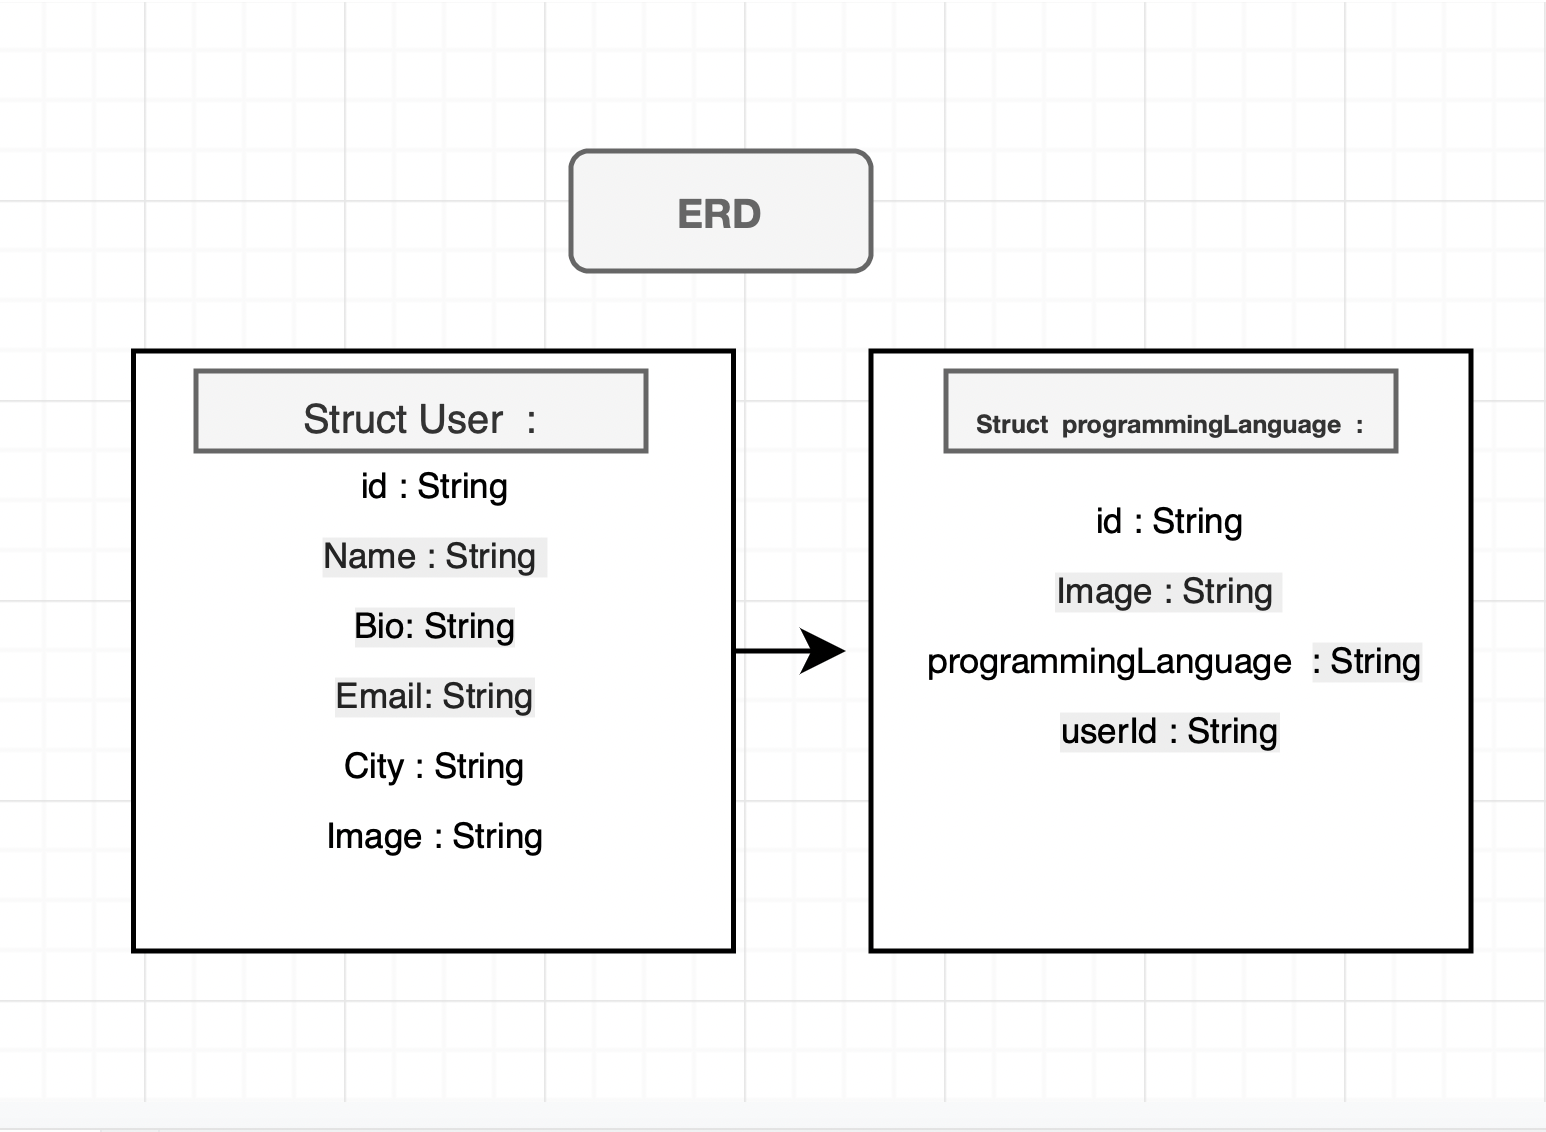
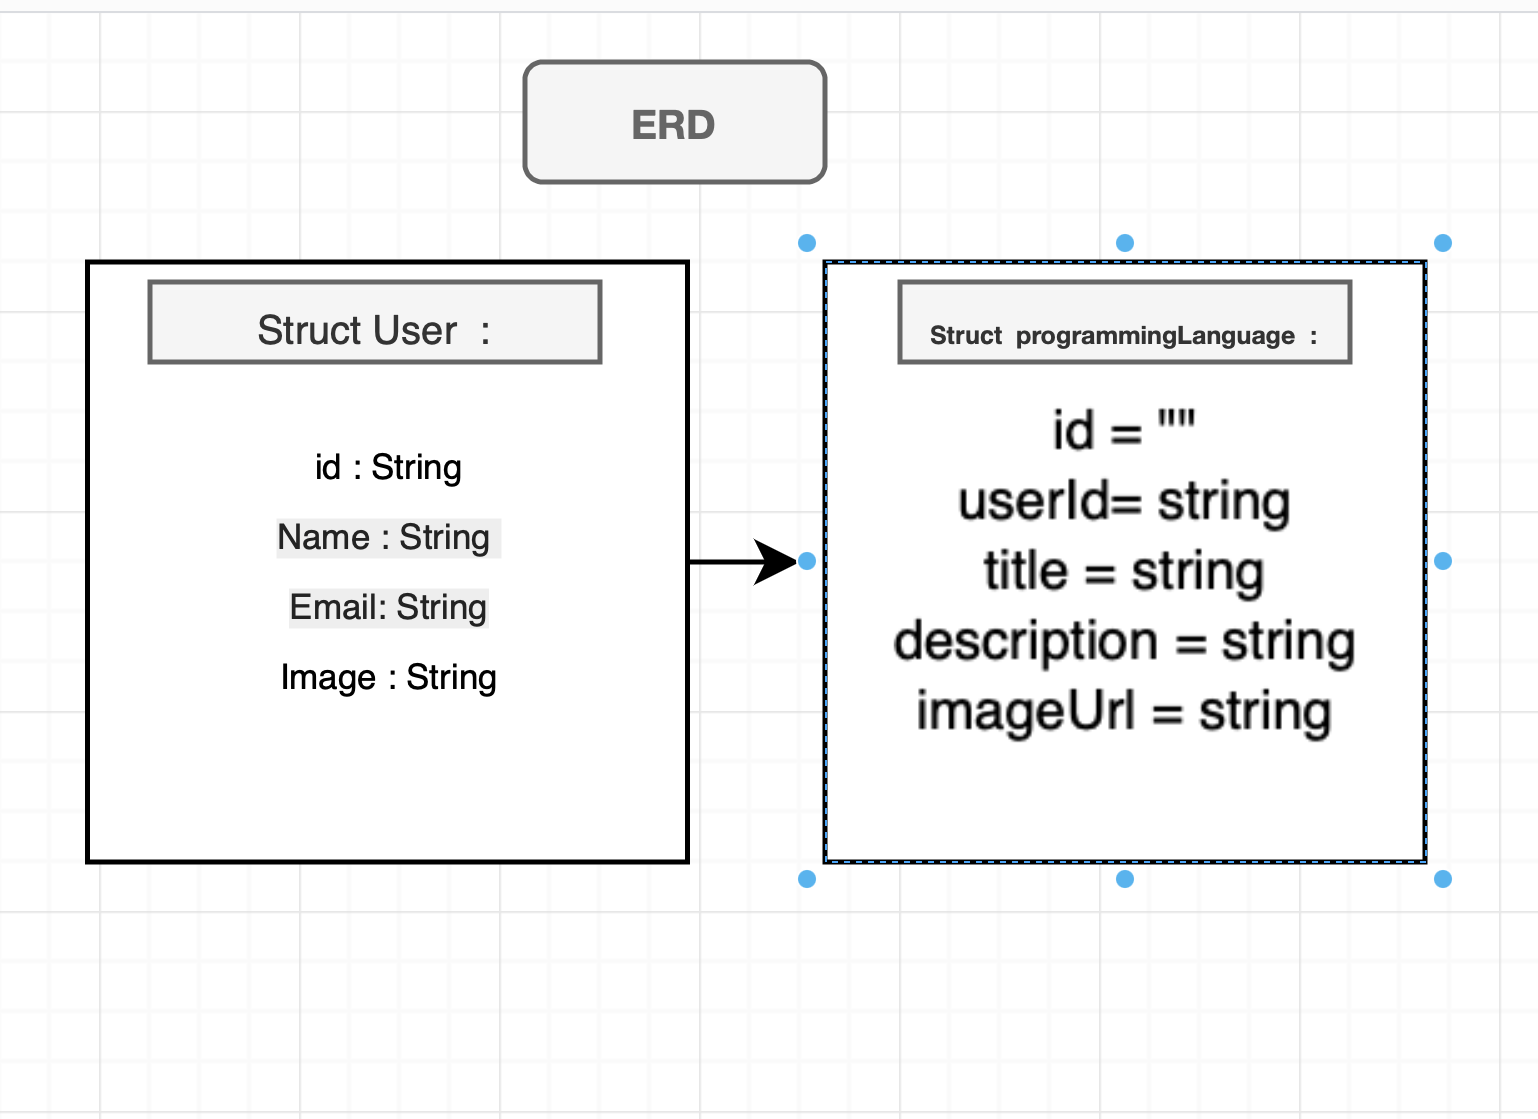
update  for wireframe ...

diff --git a/tuwaiq-academy/tuwaiq-academy/Controller/RegisterViewController.swift b/tuwaiq-academy/tuwaiq-academy/Controller/RegisterViewController.swift
@@ -25,8 +25,6 @@ class RegisterViewController: UIViewController {
     @IBOutlet weak var nameTextField: UITextField!
     @IBOutlet weak var emailTextField: UITextField!
     @IBOutlet weak var passwordTextField: UITextField!
-    @IBOutlet weak var bioTextField: UITextField!
-    @IBOutlet weak var cityTextField: UITextField!
     @IBOutlet weak var confirmPasswordTextField: UITextField!
     override func viewDidLoad() {
         super.viewDidLoad()
@@ -38,8 +36,6 @@ class RegisterViewController: UIViewController {
            let imageData = image.jpegData(compressionQuality: 0.75),
            let name = nameTextField.text,
            let email = emailTextField.text,
-           let bio = bioTextField.text,
-           let city = cityTextField.text,
            let password = passwordTextField.text,
            let confirmPassword = confirmPasswordTextField.text,
            password == confirmPassword {
@@ -67,8 +63,6 @@ class RegisterViewController: UIViewController {
                                     "id":authResult.user.uid,
                                     "name":name,
                                     "email":email,
-                                    "bio":bio,
-                                    "city":city,
                                     "imageUrl":url.absoluteString
                                 ]
                                 db.collection("users").document(authResult.user.uid).setData(userData) { error in
